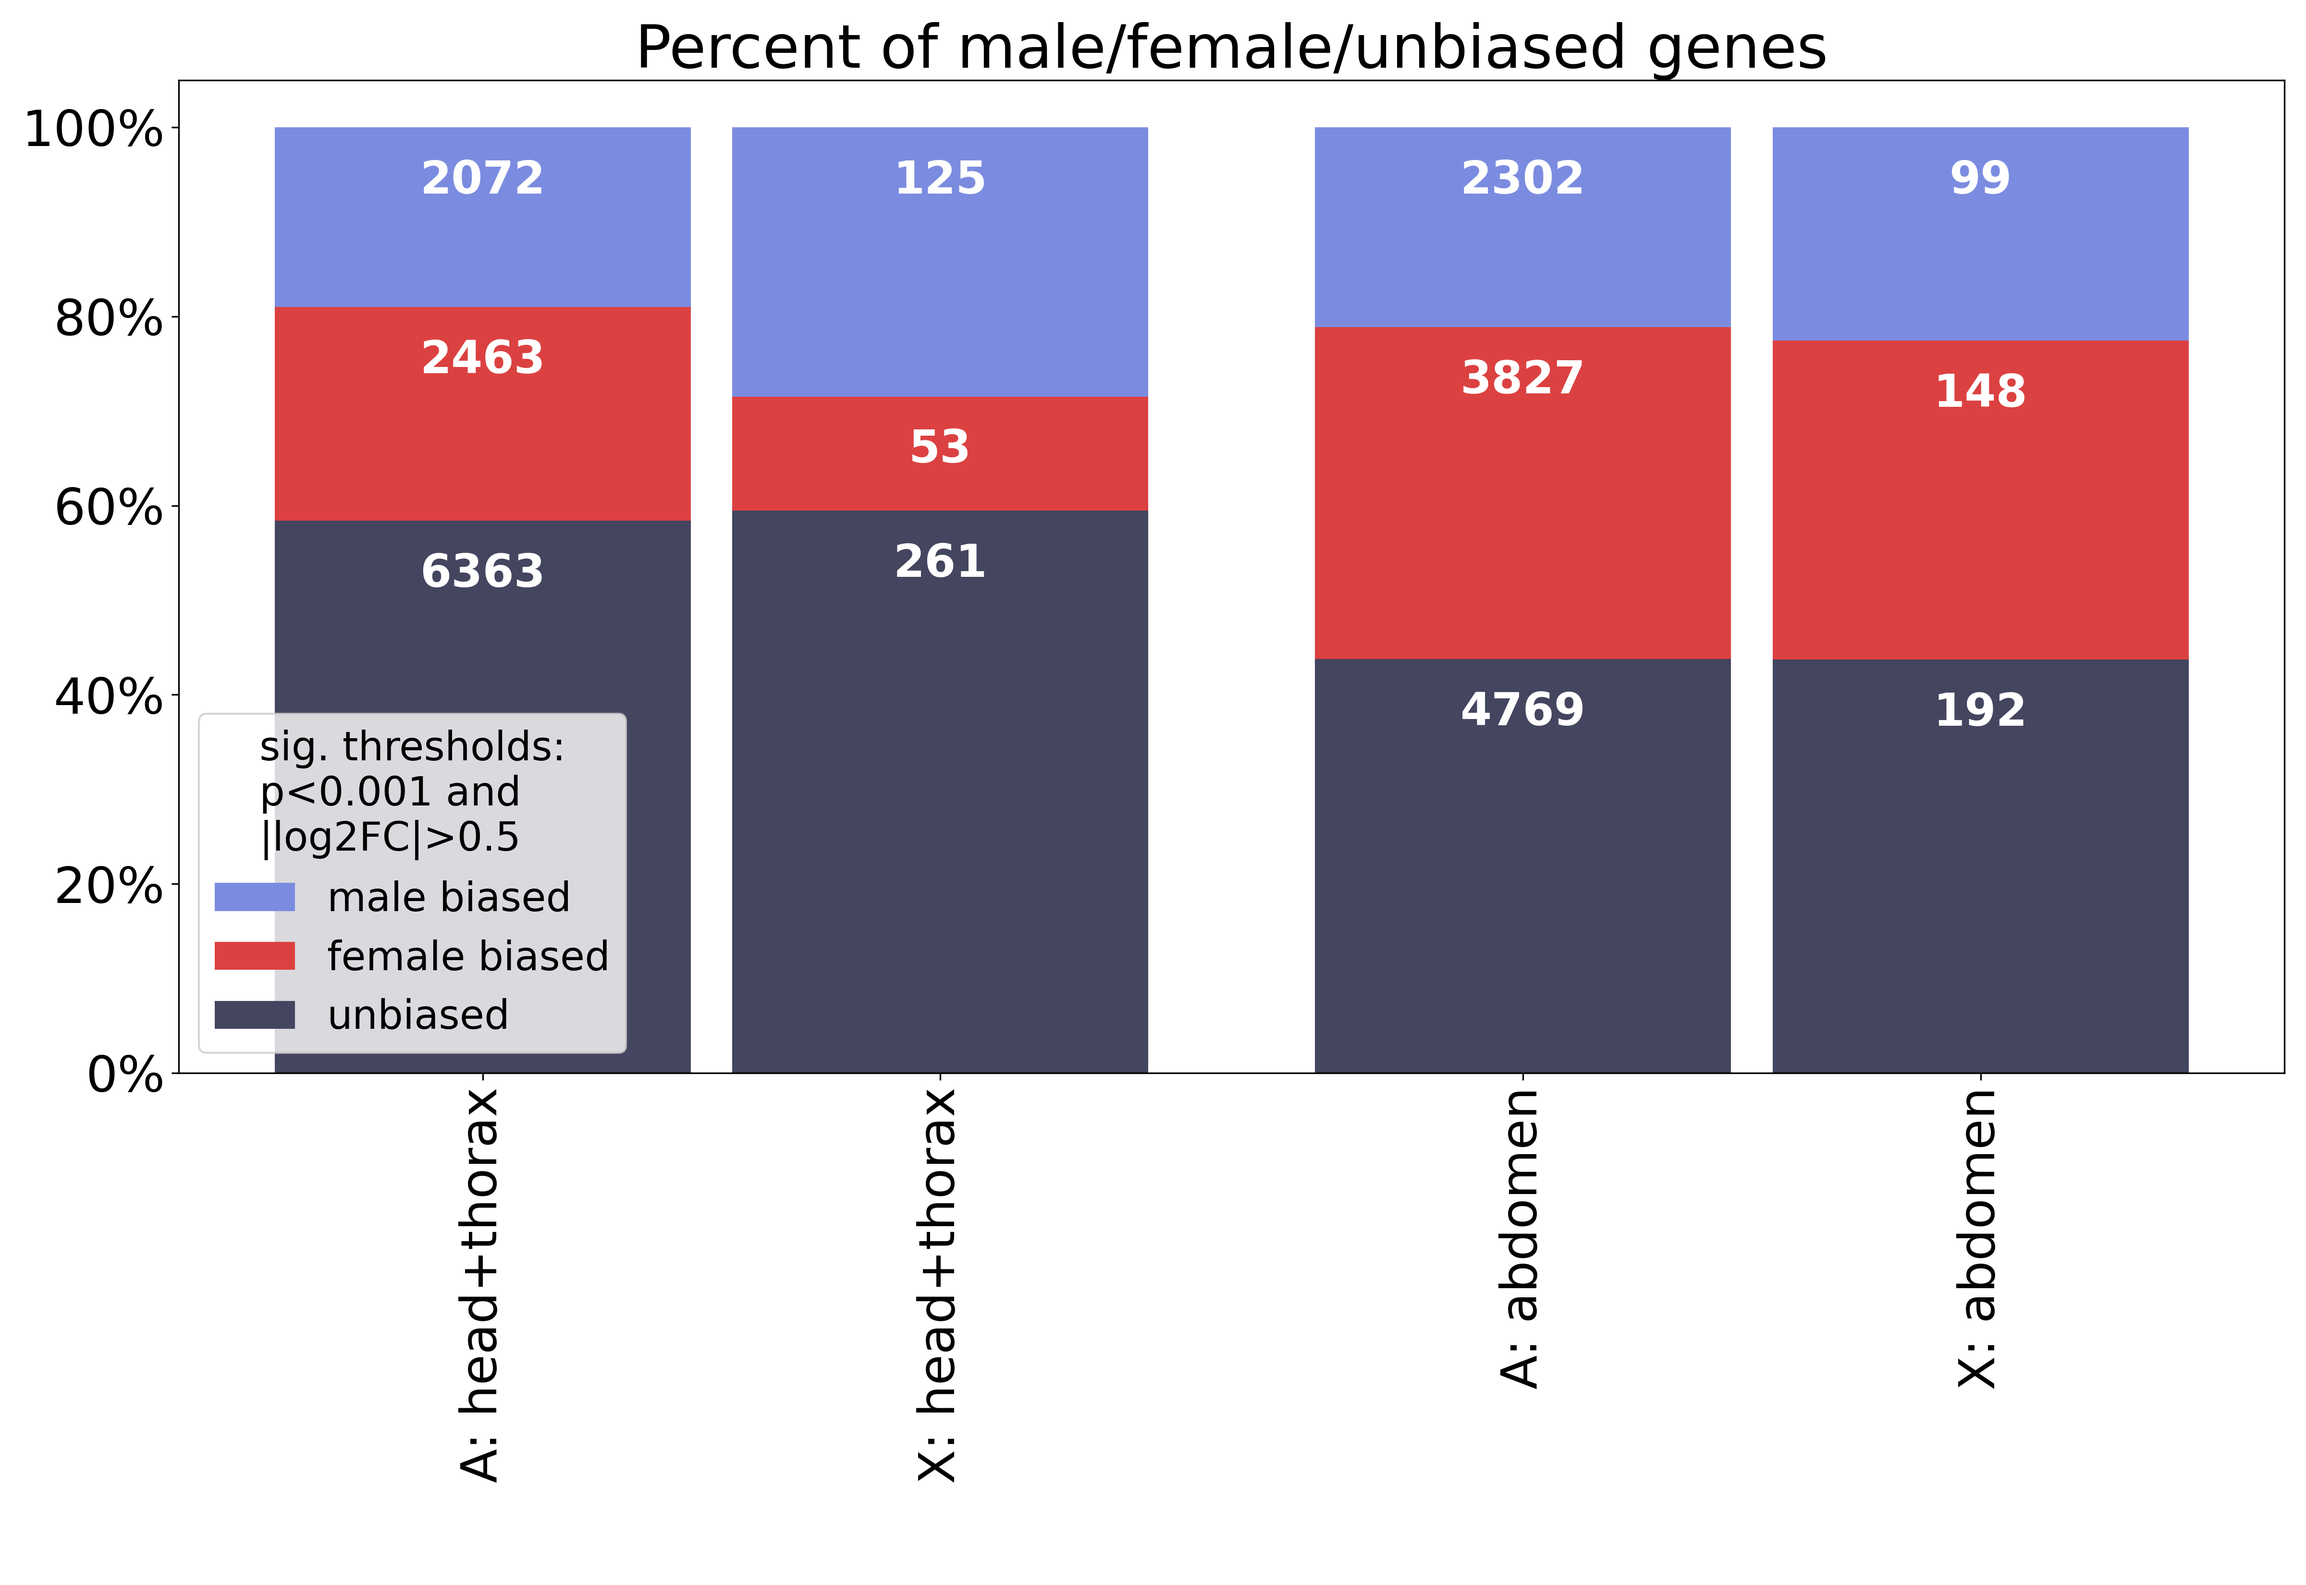
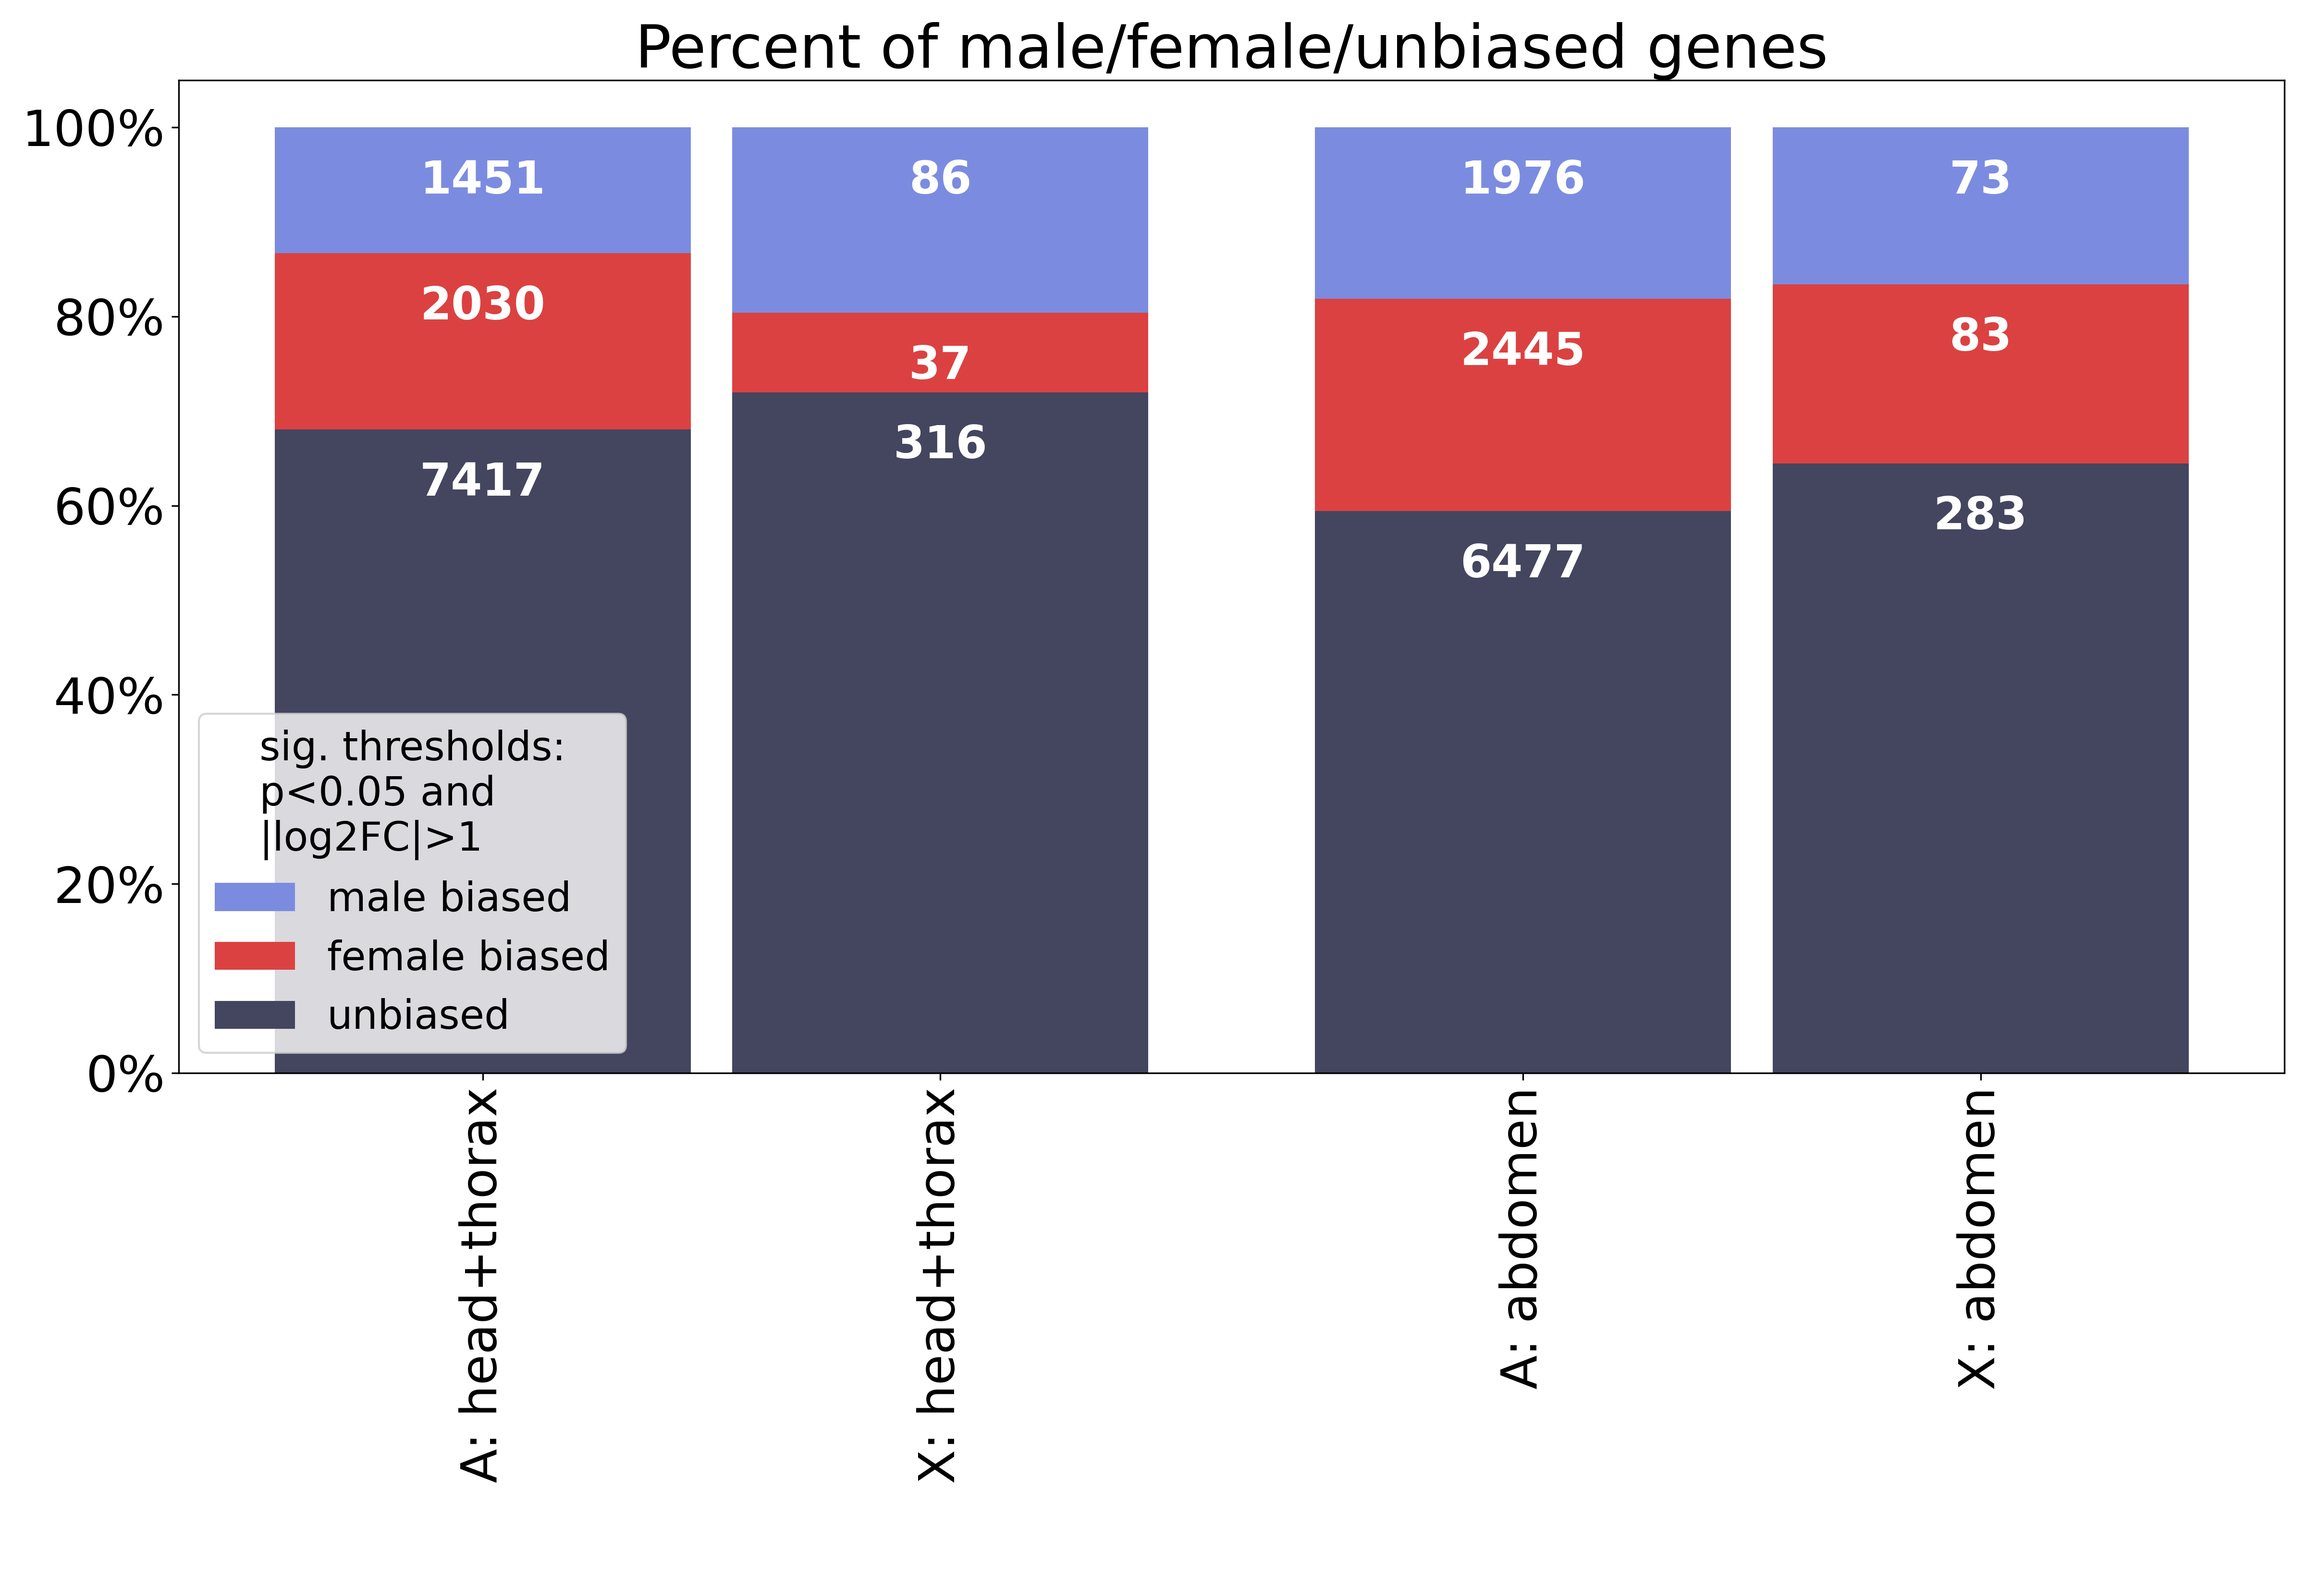
update counts

diff --git a/src/analyze_DE_stuff.py b/src/analyze_DE_stuff.py
@@ -291,10 +291,16 @@ def plot_sex_bias_bar_chart(summary_paths, annotation, X_list, sig_p_level = 0.0
             else:
                 head_thorax_summary_A["unbiased"]+=1
 
-    print(f"head_thorax_summary_A: {head_thorax_summary_A}")
-    print(f"head_thorax_summary_X: {head_thorax_summary_X}")
-    print(f"abdomen_summary_A: {abdomen_summary_A}")
-    print(f"abdomen_summary_X: {abdomen_summary_X}")
+    # print(f"head_thorax_summary_A: {head_thorax_summary_A}")
+    # print(f"head_thorax_summary_X: {head_thorax_summary_X}")
+    # print(f"abdomen_summary_A: {abdomen_summary_A}")
+    # print(f"abdomen_summary_X: {abdomen_summary_X}")
+
+    ## summary by tissues:
+    for key, desc in {"sig_female":"upregulated", "sig_male":"downregulated","unbiased":"unbiased"}.items():
+        print(f"** {key} ({desc})")
+        print(f"\tabdomen A+X -->\t\t{abdomen_summary_A[key]} + {abdomen_summary_X[key]} = {abdomen_summary_A[key]+abdomen_summary_X[key]}")
+        print(f"\thead_thorax A+X -->\t{head_thorax_summary_A[key]} + {head_thorax_summary_X[key]} = {head_thorax_summary_A[key]+head_thorax_summary_X[key]}")
 
     ## make percentages for plot 
     sum_head_thorax_summary_A=sum(list(head_thorax_summary_A.values()))
@@ -693,9 +699,10 @@ if __name__ == "__main__":
             X_list=Cmac_X_contigs_list, 
             outfile=f"/Users/{username}/work/PhD_code/PhD_chapter3/data/DE_analysis/X_sex_bias.png")
 
-    if False:
+    if True:
+        ## the settings in decideTestsDGE() in edgeR are: p.value=0.05, lfc=1
         plot_sex_bias_bar_chart(summary_paths=DE_paths, annotation=Cmac_annotation, X_list=Cmac_X_contigs_list, 
-            sig_p_level = 0.001, minLFC = 0.5,
+            sig_p_level = 0.05, minLFC = 1,
             outfile=f"/Users/{username}/work/PhD_code/PhD_chapter3/data/DE_analysis/all_sex_bias_proportion.png")
 
     if False:
@@ -707,7 +714,7 @@ if __name__ == "__main__":
             outfile=f"/Users/{username}/work/PhD_code/PhD_chapter3/data/DE_analysis/conservation_rank_sig_sex_bias_proportion.png",
             abs_LFC=abs_logFC, sig_p_threshold=0.05)
 
-    if True:
+    if False:
         ortholog_species = {
             "" : "all_species",
             "C_chinensis" : "C_chinensis", 

diff --git a/README.md b/README.md
@@ -600,6 +600,15 @@ I had a bad time with DESeq2, and I will be using edgeR. The main point is to do
 
 number of sex-biased genes in female-male contrast:
 
+```r
+# abdomen
+lrt_a <- glmLRT(fit, contrast=my.contrasts[,"Sex_a"])
+summary(de<-decideTestsDGE(lrt_a, p.value=0.05, lfc=1))
+# head+thorax
+lrt_h <- glmLRT(fit, contrast=my.contrasts[,"Sex_h"])
+summary(de<-decideTestsDGE(lrt_h, p.value=0.05, lfc=1))
+```
+
 |               | abdomen       | head+thorax   | sex bias      |
 | ------------- | ------------- | ------------- | ------------- |
 | downregulated | 3265          | 1331          | male-biased   |
@@ -607,9 +616,14 @@ number of sex-biased genes in female-male contrast:
 | upregulated   | 2793          | 805           | female-biased |
 
 
-I have exported the results of this analysis into a table with the log2FC, FDR-corrected p-value and gene ID. I have then partitioned the sex bias by X or A for both tissues. 
+I have exported the results of this analysis into a table using `topTags()` with the log2FC, BH-corrected p-value (same correction method as `decideTestsDGE()`) and gene ID.
 
-**!!!The numbers here don't match the table above!!!** Unsure what the exact parameters are that edgeR uses to determine the signficantly sex-biased genes in the female/male contrast. Mostly the trend holds though, the abdomen is more female-biased (less dosage compensated), Head+thorax has more unbiased genes overall. However, the abdomen has more female-biased genes overall according to the plot, but more male-biased (downregulated) genes according to the table.
+```r
+SexbAbd <- topTags(lrt_a, n=Inf)
+SexbHT <- topTags(lrt_h, n=Inf)
+```
+
+**!!!The numbers here don't match the table above!!!** Unsure what the exact parameters are that edgeR uses to determine the signficantly sex-biased genes in the female/male contrast. Mostly the trend holds though, the abdomen is more female-biased (less dosage compensated), Head+thorax has more unbiased genes overall. However, the abdomen has more female-biased genes overall according to the data below, but more male-biased (downregulated) genes according to the table above.
 
 <p float="left">
   <img src="data/DE_analysis/all_sex_bias_proportion_white_bg.png" width="75%" />
@@ -691,7 +705,7 @@ I am splitting the dNdS into a plot that combines all dNdS values (where some tr
   <img src="data/DE_analysis/dNdS_C_chinensis_vs_sig_logFC_white_bg.png" width="49%" />
 </p>
 
-Can't really see any difference between species or anything else interesting.
+Can't really see any difference between species or anything else interesting that differentiates the plots from each other. In general, the abdomen is more female biased
 
 
 
@@ -699,7 +713,9 @@ Can't really see any difference between species or anything else interesting.
 
 
 # old analysis with *Diorhaba*
- I suspect that *D. carinulata* has a misidentified X chromosome, which leaves it only three 1-to-1 orthologs. I looked into it a bit here, in case it is X turnover. I would need actual lab evidence to conclude that thoug I think, since the X is so conserved in all the other *Coleoptera* I have here.
+
+
+I had previously included another pair of sister species: *D.sublineata* and *D. carinulata*. I suspect that *D. carinulata* has a misidentified X chromosome, which leaves it only three X-linked 1-to-1 orthologs between them. I looked into it a bit here, in case it is X turnover. I would need actual lab evidence to conclude that though I think, since the X is so conserved in all the other *Coleoptera* I have here, and I would need coverage or PCR evidence to be sure that the X-identified contig in *D. carinulata* is right.
 
 <details>
   <summary>See old analysis</summary>
